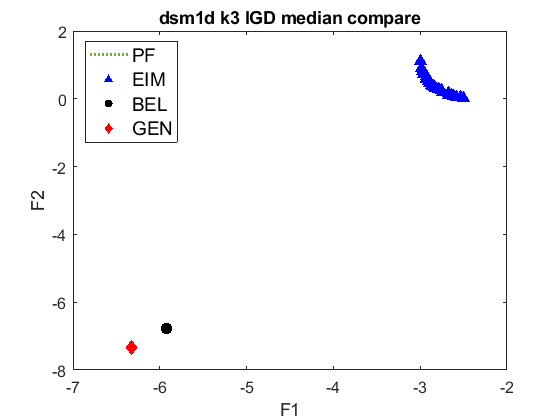
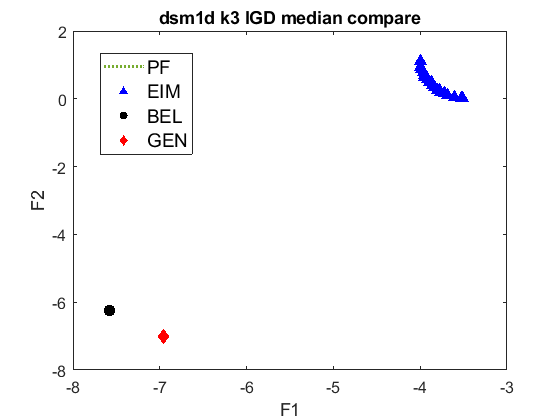
all

diff --git a/llmatch_processout2.m b/llmatch_processout2.m
@@ -14,7 +14,7 @@ close all;
 
 
 
-seedmax = 11;
+seedmax = 1;
 % problems ={'dsm1(3, 3)', 'dsm1d(3, 3)','dsm1dc1(3, 3)','dsm1dc2(3, 3)', ...
 %                          'dsm2(3, 3)', 'dsm2d(3, 3)','dsm2dc1(3, 3)','dsm2dc2(3, 3)',...
 %                            'dsm3(3, 3)', 'dsm3d(3, 3)','dsm3dc1(3, 3)','dsm3dc2(3, 3)'};
@@ -29,12 +29,12 @@ seedmax = 11;
 %               'dsm3(4,4)', 'dsm3d(4,4)','dsm3dc1(4,4)','dsm3dc2(4,4)' }; % change p3 term back to scale 10
           
 % problems = { 'dsm1(5,5)', 'dsm1d(5,5)','dsm1dc1(5,5)' };        % ,'dsm1dc2(5,5)'
-problems = { 'dsm1(3,3)', 'dsm1d(3,3)','dsm1dc1(3,3)' };       
+problems = { 'smd10(1,1,1)' };       
  %  problems = { 'dsm1(2, 2)', 'dsm1d(2, 2)','dsm1dc1(2, 2)' };  
  % problems = { 'dsm1(4, 4)', 'dsm1d(4, 4)','dsm1dc1(4, 4)' };  
                        
-methods = {'llmatcheim',  'llmatcharchive',  'llmatchpop'};  % 'llmatchpop',
-leg = {'EIM', 'ARC', 'GEN'};
+methods = {'llmatcheim',  'llmatchble'};  % 'llmatchpop',
+leg = {'EIM', 'BEL'};
 np= length(problems);
 nm = length(methods);
 
@@ -57,9 +57,10 @@ for ii = 1:np
     
     nv = prob.n_lvar;
     
-    k = 2: prob.n_lvar;
-    k = (k-1)/2;
-    xu = [0, k];
+%     k = 2: prob.n_lvar;
+%     k = (k-1)/2;
+%     xu = [0, k];
+xu=[1,1];
     
     fig1 = gcf;
 
@@ -73,14 +74,14 @@ for ii = 1:np
         savepath = strcat(pwd, '\result_folder\', prob.name, '_', num2str(num) ,'_',method);
         collectionpermethod= zeros( 6, seedmax);
         for kk = 1:seedmax
-            savename = strcat(savepath, '\xl_', num2str(kk), '.csv' );
+            savename = strcat(savepath, '\xl_', num2str(kk), '.csv' )
             xl = csvread(savename);
             
             % every 10 training data make a prediction
             for mm = 1:5
                 xl_sep = xl(1: (mm-1) * 10 + 20, :);
-                % mse = prediction(xu, xl_sep, prob);
-                mse = collection_prediction(sample_xl, xu, xl_sep, prob);
+                mse = prediction(xu, xl_sep, prob);
+                % mse = collection_prediction(sample_xl, xu, xl_sep, prob);
                 
                %  kend =  kendall(sample_xl, xu, xl_sep, prob);
                 collectionpermethod(mm, kk) = mse;
@@ -123,7 +124,7 @@ for ii = 1:np
     t = strcat(prob.name, ' k ', num2str(nv)); 
     title(t,  'FontSize', 16);
     set(gca, 'XTickLabel',{'20','30','40','50','60','local search'}, 'FontSize', 12);
-    legend(hBar, leg{1}, leg{2}, leg{3},  'FontSize', 14); %methods{3},
+    legend(hBar, leg{1}, leg{2}, 'FontSize', 14); %methods{3}, leg{3}, 
     
     savename = strcat(pwd, '\result_folder\plots3\', prob.name, '_llmatchperformance.fig');
     savefig(savename);
@@ -183,12 +184,13 @@ xu = repmat(xu, num_xl, 1);
 % first three problem lower value stays the same
 if ~contains(prob.name, 'c2' )
     xl_prime = xu(1,:);
+    xl_prime = [2, pi/4];
     [fl_prime, ~] = prob.evaluate_l(xu(1, :), xl_prime);
     
-    if abs(fl_prime) >0.001
-        error('lower f prime value is wrong');
-    end
-    
+%     if abs(fl_prime) >0.001
+%         error('lower f prime value is wrong');
+%     end
+%     
     % check prediction
     fpred = dace_predict(xl_prime, krg_obj{1});
     fpred = denormzscore( fl, fpred);
@@ -235,8 +237,8 @@ samplepred = dace_predict(xlsample, krg_obj{1});
 samplepred = denormzscore( fl, samplepred);
 
 % get kendall stat
-samplefl = sort(samplefl);
-samplepred = sort(samplepred);
+% samplefl = sort(samplefl);
+% samplepred = sort(samplepred);
 
 kendallstat = corr(samplefl, samplepred, 'type', 'Kendall');
 end

diff --git a/out_select.m b/out_select.m
@@ -1,0 +1,53 @@
+function [best_x,best_f, best_c, s, index] = out_select(xu,  xl, prob)
+% this function select a starting point for a local search algorithm
+% usage
+% input:
+%           x                       : 2d matrix of design variables,
+%                                              (original range)
+%           
+% output:
+%           best_x                  : one x instance with smallest objective value
+%                                               or with smallest feasible objective value
+%                                               or with smallest const value if no
+%                                                               feasible solution exists
+%           best_f                  : corresponding obj value of best_x
+%           best_c                  : corresponding con value of best_x
+%           s                       : flag indicate whether there is feasible solution
+%           index                   : index of output x in archive
+%--------------------------------------------------------------------------
+[uf, uc] = prob.evaluate_u(xu, xl);
+[lf, lc]= prob.evaluate_l(xu, xl); 
+c = [uc, lc];
+
+if ~isempty(c)              % constraint problem
+     num_con = size(c, 2);
+        index_c = sum(c <= 0, 2) == num_con;
+        if sum(index_c) == 0 % no feasible, return f with smallest constraints
+            sum_c = sum(c, 2);
+            [~, i] = min(sum_c);
+            best_x = x(i, :);
+            best_f = ff(i, :);
+            best_c = fc(i, :);
+            s = false;
+            index = i;
+        else % has feasible, return feasible smallest f
+            feasi_ff = ff(index_c, :);
+            feasi_x = x(index_c, :);
+            feasi_fc = fc(index_c, :);
+            [~, i] = min(feasi_ff);
+            best_x = feasi_x(i, :);
+            best_f = feasi_ff(i, :);
+            best_c = feasi_fc(i, :);
+            s = true;
+            index = i;
+        end
+else                        % unconstraint problem
+       [best_f, i] = min(uf);
+        best_x = x(i, :);
+        s = true;
+        best_c = [];
+        index = i;
+    
+end
+
+end

diff --git a/ulego_coreeim.m b/ulego_coreeim.m
@@ -38,13 +38,13 @@ num_gen   = 20;
 % parallel compatible setting
 prob = eval(prob);
 
-
-savepath = strcat(pwd, '\result_folder\', prob.name, '_eim');
-file = strcat(savepath, '\out_', num2str(seed),'.csv');
-if exist(file,'file') == 2  % ignore existing runs 
-    fprintf('skip');
-    return;
-end
+% 
+% savepath = strcat(pwd, '\result_folder\', prob.name, '_eim');
+% file = strcat(savepath, '\out_', num2str(seed),'.csv');
+% if exist(file,'file') == 2  % ignore existing runs 
+%     fprintf('skip');
+%     return;
+% end
 
 
 
@@ -77,6 +77,7 @@ for i=1:inisize_u
 end
 %--xu evaluation
 [fu, fc] = prob.evaluate_u(xu, xl);
+[lu, lc] = prob.evaluate_l(xu, xl);
 num_con = size(fc, 2);
 % scatter(xu, fu, 'b'); drawnow;
 
@@ -95,11 +96,14 @@ for i = 1:numiter_u
     n_feval = n_feval + n;
     %--evaluate xu
     [newfu, newfc] = prob.evaluate_u(newxu, newxl);
+    [newlu, newlc] =  prob.evaluate_l(newxu, newxl);
+    
     %--assemble xu fu fc
     xu = [xu; newxu];
     xl = [xl; newxl];
-    fu = [fu; newfu];
-    fc = [fc; newfc];
+    fu = [fu; newfu];  lu = [lu; newlu];
+    fc = [fc; newfc];    lc = [lc; newlc];
+    
     llfeasi_flag = [llfeasi_flag, flag];
     %--adjust fu by lower feasibility
     fu = llfeasi_modify(fu, llfeasi_flag, inisize_u+i);  % --?

diff --git a/ulego_coremain.m b/ulego_coremain.m
@@ -14,8 +14,9 @@ addpath(problem_folder);
 % problems = { 'bltp1()','bltp2()','bltp3()','bltp4()','bltp5()','bltp6()','bltp7()',...
              % 'bltp8()','bltp9()', 'bltp10()','bltp11()'};
          
-problems = {'smd9()', 'smd10()','smd11()','smd12()'};
-seeds = linspace(1, 11, 11);
+% problems = { 'smd1()','smd2()','smd3()','smd4()','smd5()','smd6()','smd7()', 'smd8()'};
+problems = { 'smd12()'};
+seeds = linspace(9, 9, 9);
 
 np = length(problems);
 ns = length(seeds);
@@ -29,10 +30,10 @@ end
 
 nrun = length(paras);
 
-parfor i = 1:nrun
-     ulego_coreeim(paras{i}{1}, paras{i}{2}, 'EIMnext', 'EIM_eval',  'normalization_y');
+for i = 1:nrun
+     % ulego_coreeim(paras{i}{1}, paras{i}{2}, 'EIMnext', 'EIM_eval',  'normalization_y');
      ulego_coreble(paras{i}{1}, paras{i}{2}, 'normalization_y');
-     ulego_coregen(paras{i}{1}, paras{i}{2}, 'normalization_y');
+     % ulego_coregen(paras{i}{1}, paras{i}{2}, 'normalization_y');
 end
 
 % parfor i = 1:nrun

diff --git a/ulego_coreending.m b/ulego_coreending.m
@@ -1,6 +1,6 @@
 function ulego_coreending(xu, fu, fc, xl, prob, seed, n_up, n_low, method)
 % fu is converted to one from archive
-[xu_best, fu, cu, ~, index] = localsolver_startselection(xu, fu, fc);
+[xu_best, fu, cu, ~, index] =out_select(xu,  xl, prob);
 xl_best = xl(index, :);
 [fl, cl] = prob.evaluate_l(xu_best, xl_best);
 
@@ -12,5 +12,21 @@ num_conl = size(cl, 2);
 cu = sum(cu<=0, 2)==num_conu;
 cl = sum(cl<=0, 2)==num_conl;
 perf_record(prob, fu, cu, fl, cl, n_up, n_low, seed, method);
+archive_record(xu, xl);
+
+end
+
+function archive_record(xu, xl, prob)
+savepath = strcat(pwd, '\result_folder\', prob.name, '_', method);
+n = exist(savepath);
+if n ~= 7
+    mkdir(savepath)
+end
+
+savename = strcat(savepath, '\xu_', num2str(seed),'.csv');
+csvwrite(savename, xu);
+savename = strcat(savepath, '\xl_', num2str(seed),'.csv');
+csvwrite(savename, xl);
+
 
 end

diff --git a/lowerplot.m b/lowerplot.m
@@ -6,11 +6,11 @@ xl2 = linspace(-1.0 + 1e-10, -1.0 + exp(1), 100);
 
 xu = [1, 1];     %smd12
 xl1 = linspace(-5, 10, 100);
-xl2 = linspace(-1.5 + 1e-10, 1.5 + 1e-10, 100);
+ xl2 = linspace(-1.5 + 1e-10, 1.5 - 1e-10, 100);
 
-xl = [1, pi/4];
-prob = smd12(1, 1, 1);
-prob.evaluate_l(xu,xl )
+xu = [1, 1];     %smd10
+xl1 = linspace(-5, 10, 100);
+% xl2 = linspace(-pi/2 + 1e-10, pi/2 - 1e-10, 100);
 
  [xl1, xl2] = meshgrid(xl1, xl2);
  
@@ -21,7 +21,11 @@ prob.evaluate_l(xu,xl )
     % smd 9
      %   f (i, j) = xu(1)^2 +  xl1(i, j).^2  +  (xu(2) - log(1+ xl2(i, j))).^2;
      % smd12            
-     f(i, j) = xu(1)^2  + (xl1(i, j) - 2)^2 + (xu(2) - tan(xl2(i, j)))^2;
+   %   f(i, j) = xu(1)^2  + (xl1(i, j) - 2)^2 + (xu(2) - tan(xl2(i, j)))^2;
+   
+   % smd10
+    f(i, j) = xu(1)^2 + (xl1(i, j) - 2)^2  +  (xu(2) - tan(xl2(i, j)))^2;
+   
        
      end
  end

diff --git a/llmatch_processout4.m b/llmatch_processout4.m
@@ -1,0 +1,39 @@
+%% plot median mse in every 10 new training data
+%
+% for a seed per problem
+% (1) load xl, generate xu
+% (2) iterate from  index 20 every 10 more until 60,
+%       read xl, match xu, train dace, predict best solution
+% (3) save mse to another matrix
+% (4)
+
+clearvars;
+close all;
+
+seedmax = 11;
+          
+ problems ={'smd10(1,1,1)'};     
+
+                       
+methods = {'llmatcheim',  'llmatcharchive',  'llmatchpop'};  % 'llmatchpop',
+leg = {'EIM', 'BLE'};
+np= length(problems);
+nm = length(methods);
+
+
+% lower level has fixed number of true evaluation before local search
+% 60 (20, 30, 40, 50, 60)
+% last one saved for local search final results
+collectmatrix = zeros(, np*nm*2);
+
+for ii = 1:np
+    prob = problems{ii};
+    prob = eval(prob);
+    nv = prob.n_lvar;
+    
+    xu = [1, 1];
+    
+
+end
+
+ 

diff --git a/llmatch_main.m b/llmatch_main.m
@@ -14,11 +14,12 @@ close all;
  % problems = { 'dsm1(4,4)', 'dsm1d(4,4)','dsm1dc1(4,4)','dsm1dc2(4,4)' }; % change p3 term back to scale 10
   % problems = { 'dsm1(5, 5)', 'dsm1d(5, 5)','dsm1dc1(5, 5)','dsm1dc2(5, 5)' };     
   % problems = { 'dsm1(3,3)', 'dsm1d(3,3)','dsm1dc1(3,3)','dsm1dc2(3,3)' };   
- problems = { 'dsm1(2,2)', 'dsm1d(2,2)','dsm1dc1(2,2)','dsm1dc2(2,2)' }; 
-          
+ % problems = { 'dsm1(2,2)', 'dsm1d(2,2)','dsm1dc1(2,2)','dsm1dc2(2,2)' }; 
+ 
+ problems = {'smd12()'};
 seeds = linspace(1, 11, 11);
 
-match_methods = {'llmatch', 'llmatch_sao_pop',  'llmatch_sao_archiveinsert'};
+match_methods = {'llmatch',  'llmatch_sao_archiveinsert'}; % 'llmatch_sao_pop', ,  'llmatch_sao_archiveinsert'
 
 % llmatch_globalmin_cmp(problems{1}, match_methods{1}, 1);
 

diff --git a/llmatch_globalmin_cmp.m b/llmatch_globalmin_cmp.m
@@ -7,9 +7,12 @@ function llmatch_globalmin_cmp(prob, match_method, seed)
 
 prob = eval(prob);
 
-k = 2: prob.n_lvar;
-k = (k-1)/2;
-xu = [0, k];
+% k = 2: prob.n_lvar;
+% k = (k-1)/2;
+% xu = [0, k];
+
+% smd10
+xu = [1, 1];
 
 rng(seed, 'twister');
 

diff --git a/llmatch_sao_archiveinsert.m b/llmatch_sao_archiveinsert.m
@@ -94,7 +94,7 @@ end
 % llcmp = true;
 llcmp = false;
 if llcmp
-    method = 'llmatcharchive';
+    method = 'llmatchble';
     seed = varargin{1};
     % add local search result
     train_xl = [train_xl; match_xl];
